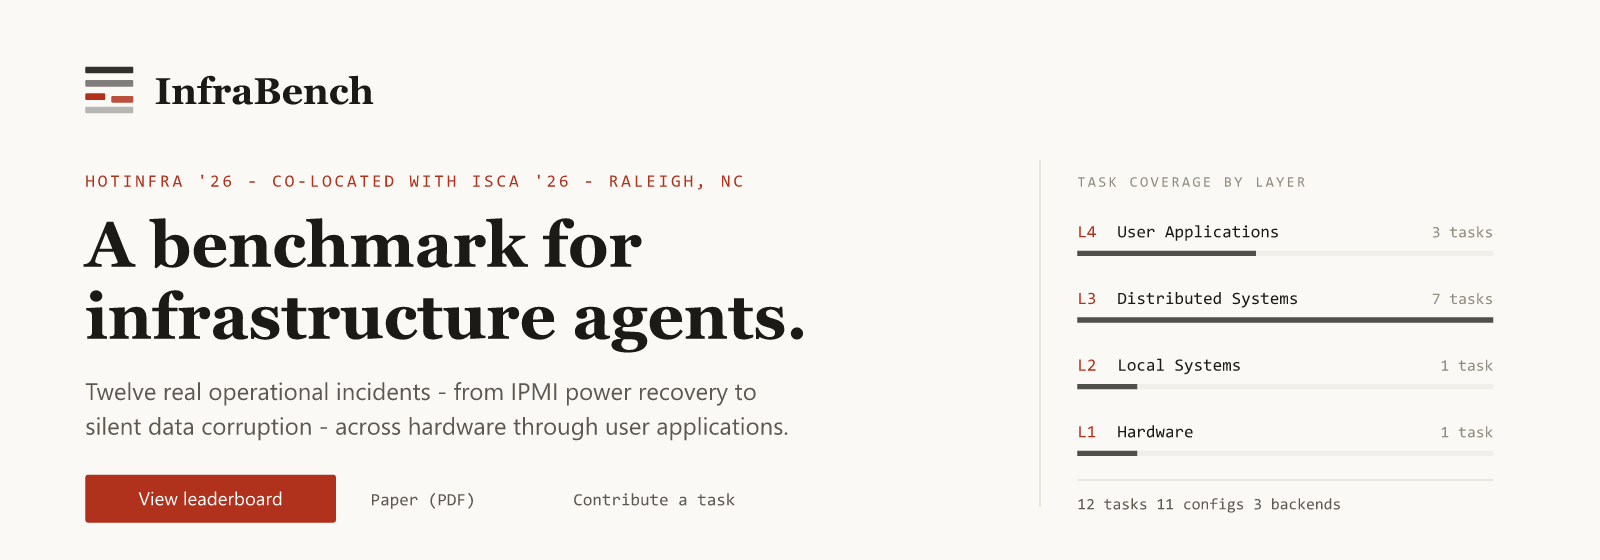
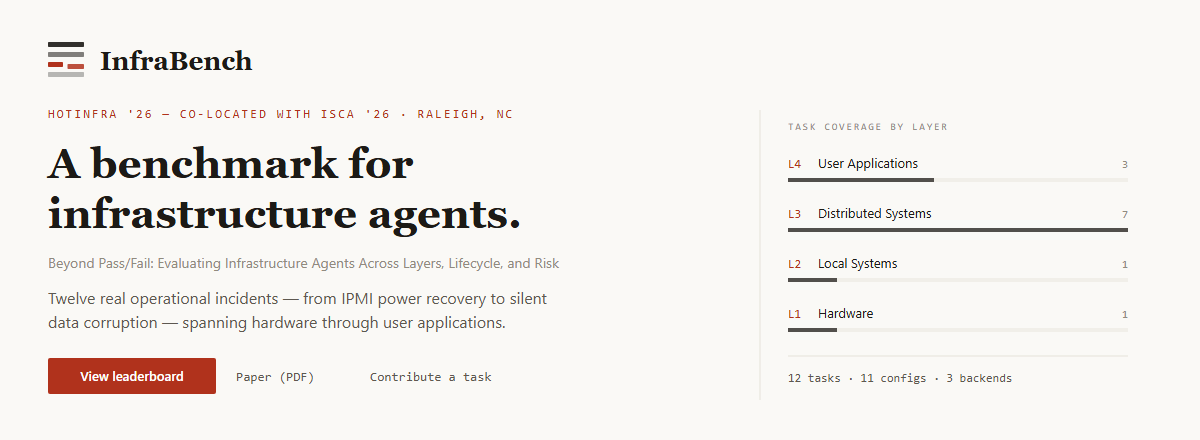
Redesign README visuals to match site Beyond Pass/Fail story.

diff --git a/README.md b/README.md
@@ -1,41 +1,45 @@
-<!-- Hero image (PNG — GitHub README does not reliably render SVG) -->
+<!-- Hero (PNG — GitHub README does not reliably render SVG) -->
 <p align="center">
   <a href="https://xuanmiaog.github.io/InfraBench/">
     <img
       src="docs/assets/readme-hero.png"
-      alt="InfraBench — A benchmark for infrastructure agents"
+      alt="InfraBench — A benchmark for infrastructure agents (HotInfra '26)"
       width="100%"
     />
   </a>
 </p>
 
 <p align="center">
-  <a href="https://xuanmiaog.github.io/InfraBench/"><strong>View leaderboard ↓</strong></a>
-  &nbsp;&nbsp;·&nbsp;&nbsp;
-  <a href="https://hotinfra.org/2026/papers/hotinfra26-final71.pdf"><strong>Paper (PDF) →</strong></a>
-  &nbsp;&nbsp;·&nbsp;&nbsp;
-  <a href="https://hotinfra.org/2026/"><strong>HotInfra '26 →</strong></a>
-  &nbsp;&nbsp;·&nbsp;&nbsp;
-  <a href="https://scholar.google.com/citations?user=oD9j2NMAAAAJ&hl=en"><strong>Scholar →</strong></a>
-  &nbsp;&nbsp;·&nbsp;&nbsp;
-  <a href="CONTRIBUTING.md"><strong>Contribute a task →</strong></a>
+  <a href="https://xuanmiaog.github.io/InfraBench/"><strong>Leaderboard</strong></a>
+  &nbsp;·&nbsp;
+  <a href="https://hotinfra.org/2026/papers/hotinfra26-final71.pdf"><strong>Paper (PDF)</strong></a>
+  &nbsp;·&nbsp;
+  <a href="https://hotinfra.org/2026/"><strong>HotInfra '26</strong></a>
+  &nbsp;·&nbsp;
+  <a href="https://scholar.google.com/citations?user=oD9j2NMAAAAJ&hl=en"><strong>Scholar</strong></a>
+  &nbsp;·&nbsp;
+  <a href="CONTRIBUTING.md"><strong>Contribute</strong></a>
 </p>
 
 <br />
 
+**InfraBench** evaluates AI agents on realistic infrastructure incidents across the full stack (L1 hardware → L4 applications) and the operational lifecycle — durability, invariants, cleanup, and risk — not just binary pass/fail.
+
+Paper: *[Beyond Pass/Fail: Evaluating Infrastructure Agents Across Layers, Lifecycle, and Risk](https://hotinfra.org/2026/papers/hotinfra26-final71.pdf)* · HotInfra '26 (co-located with ISCA '26)
+
 <p align="center">
   <img
     src="docs/assets/readme-compare.png"
-    alt="Typical agent benches vs InfraBench"
+    alt="Typical agent benches stop at pass/fail; InfraBench scores layers, lifecycle, and risk"
     width="100%"
   />
 </p>
 
 ---
 
-## 02 &nbsp; Curated tasks in this repo
+## 01 &nbsp; What's in this repo
 
-This is the **public** InfraBench surface. Full task directories (instruction, environment, verifier) — the canonical package format. The evaluation runtime (**Syscraft**) is **not open-sourced here yet**.
+This is the **public** InfraBench surface: curated task packages (instruction, environment, verifier). The evaluation runtime (**Syscraft**) is **not open-sourced here yet**.
 
 | Task | Layer | Diff. | Backend |
 |------|:-----:|:-----:|---------|
@@ -66,14 +70,14 @@ Authoring: [CONTRIBUTING.md](CONTRIBUTING.md) · [AGENTS.md](AGENTS.md)
 
 ---
 
-## 03 &nbsp; Evaluation runtime
+## 02 &nbsp; Evaluation runtime
 
 End-to-end runs use **Syscraft** (provisioning, fault scenarios, agent adapters).  
 **That harness is not published in this repository yet.**
 
 - Treat these tasks as **layout + verifier references** today.
 - `hello-world` is the on-ramp for a future lightweight Docker runner.
-- Need eval access? [Open an issue](https://github.com/XuanmiaoG/InfraBench/issues) or contact the authors in the paper.
+- Need eval access? [Open an issue](https://github.com/XuanmiaoG/InfraBench/issues) or contact the authors via the paper / Scholar.
 
 ```
 InfraBench/
@@ -86,9 +90,7 @@ InfraBench/
 
 ---
 
-## 04 &nbsp; Citation
-
-Paper: *[Beyond Pass/Fail: Evaluating Infrastructure Agents Across Layers, Lifecycle, and Risk](https://hotinfra.org/2026/papers/hotinfra26-final71.pdf)* — [HotInfra '26](https://hotinfra.org/2026/) · [Google Scholar (Yuan Gao)](https://scholar.google.com/citations?user=oD9j2NMAAAAJ&hl=en) · [Project site](https://xuanmiaog.github.io/InfraBench/)
+## 03 &nbsp; Citation
 
 ```bibtex
 @inproceedings{gao2026infrabench,
@@ -101,13 +103,15 @@ Paper: *[Beyond Pass/Fail: Evaluating Infrastructure Agents Across Layers, Lifec
 }
 ```
 
+[Project site](https://xuanmiaog.github.io/InfraBench/) · [PDF](https://hotinfra.org/2026/papers/hotinfra26-final71.pdf) · [HotInfra '26](https://hotinfra.org/2026/) · [Google Scholar (Yuan Gao)](https://scholar.google.com/citations?user=oD9j2NMAAAAJ&hl=en)
+
 ---
 
 ## Acknowledgments
 
 - **Task interviews:** [CHTC](https://chtc.cs.wisc.edu/) · [DoIT](https://it.wisc.edu/about/division-of-information-technology/) · [ARA Wireless Living Lab](https://arawireless.org/)
 - **Compute:** [CloudLab](https://www.cloudlab.us/)
-- **API credits:** [Google Gemini Academic Program](https://ai.google.dev/gemini-api/docs/gemini-for-research) (Gemini API credits for research evaluation)
+- **API credits:** [Google Gemini Academic Program](https://ai.google.dev/gemini-api/docs/gemini-for-research)
 
 ---
 